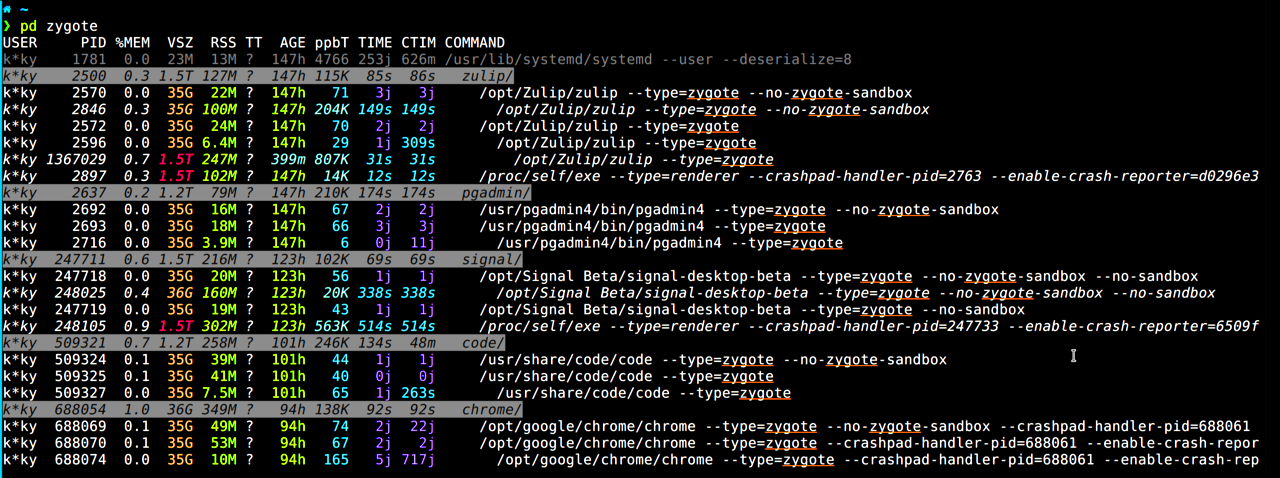
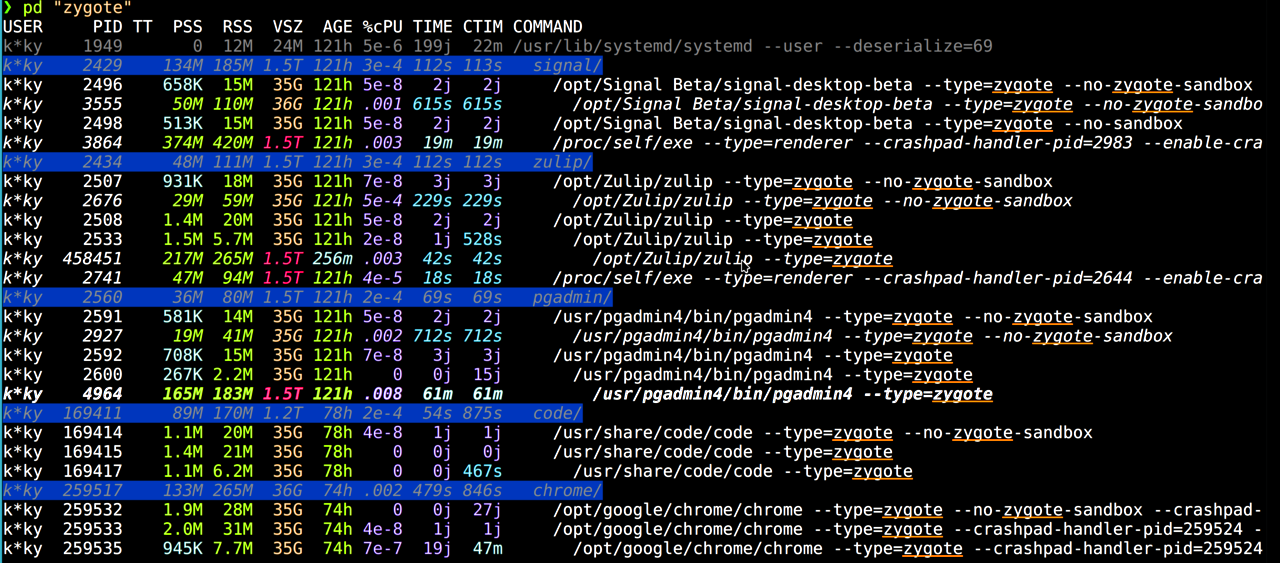
update kaminsky0 config files (#4)
* clean up kaminsky0 config files

* more changes for rollups and new columns

* new screenshots

diff --git a/configs/kaminsky0/README.md b/configs/kaminsky0/README.md
@@ -52,6 +52,7 @@ see their provenance in a subtle way.
   roll-ups/merge behavior (not shown in this first screenshot) is slightly different for certain applications (see above).
 
   <img src="pd.png" alt="pd" style="margin-left: 2em; margin-bottom: 1.5em;" width="75%" hspace="50">
+  <img src="pd-more.png" alt="pd" style="margin-left: 2em; margin-bottom: 1.5em;" width="75%" hspace="50">
 
 - **Search for a pattern**.  Note that matching text is underlined,
   and non-matching parents/ancestors are not-colored/dark.
